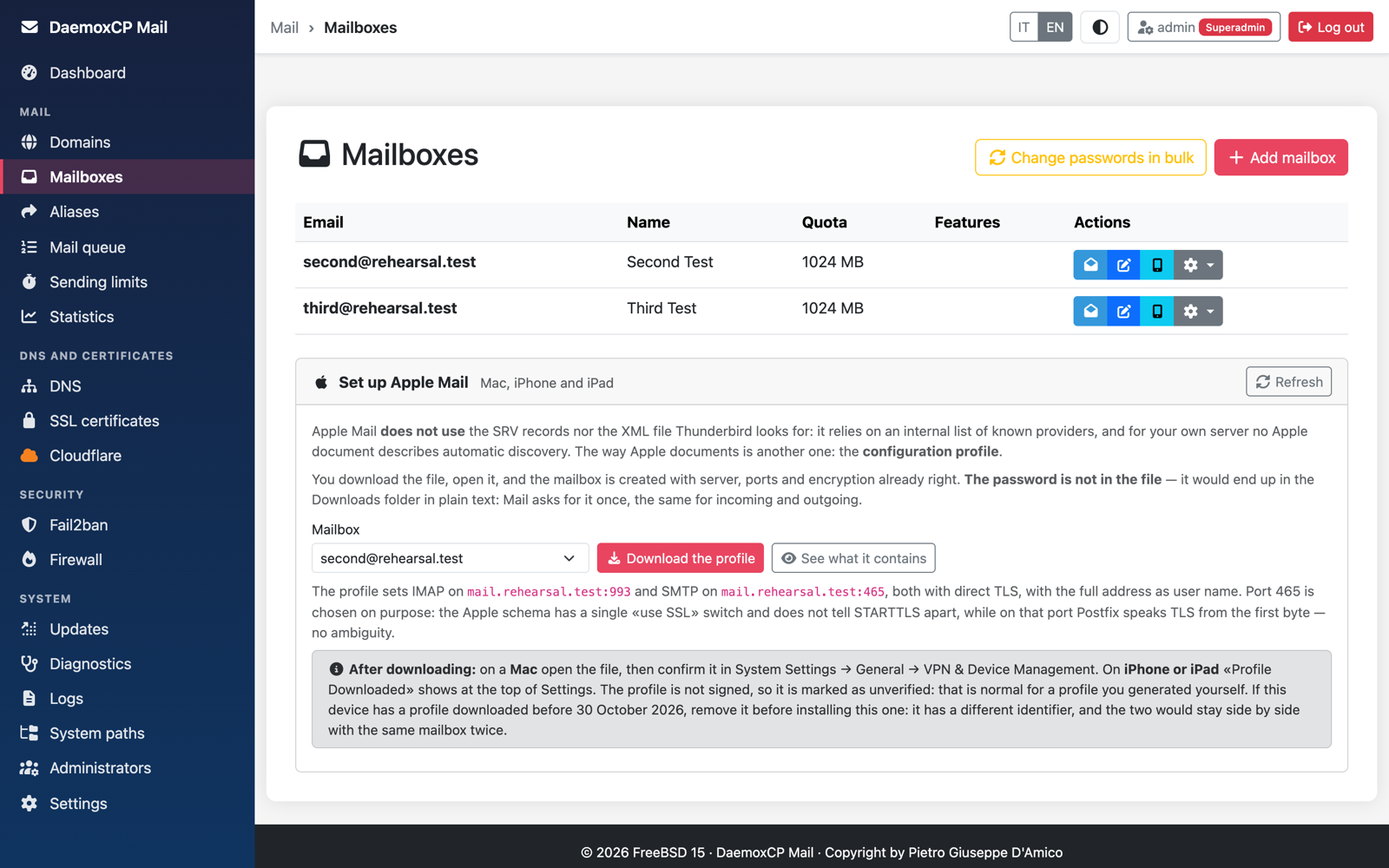
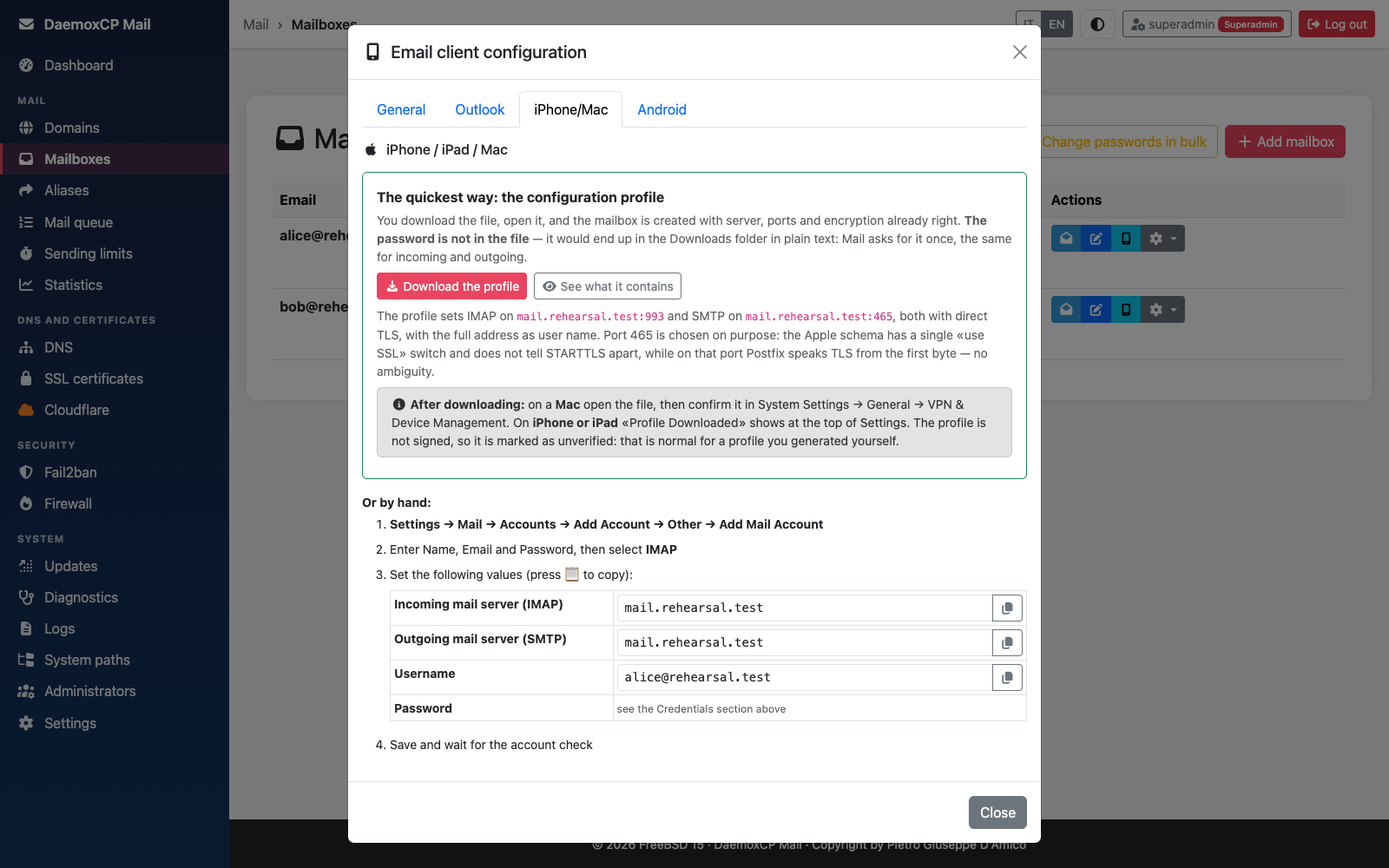
The Apple Mail profile in the mailbox window, not in a separate card
Whoever sets up a mailbox opens its "Client setup" window: the iPhone/Mac tab had only the manual
steps, and the profile was in a card at the bottom of Mailboxes that nobody found (tried on 22
November on a real iPhone).

- iPhone/Mac tab: first "Download the profile" and "See what it contains" for that mailbox, with the
  ports line and what to do next; below, "Or by hand". The buttons turn on only after checking that
  the profile can be made (mail server name, existing mailbox), otherwise the tab says why;
  touch-target, 44 px for fingers
- removed the card at the bottom of Mailboxes (apple-profile-card.html) and its language entries;
  removed the sentence about profiles downloaded before 2026-10-30, which means nothing to a new
  installation
- tests/apple-profile-browser-test.js: place, order, downloaded file (address, 993 and 465 over SSL,
  no password, plutil), preview, another mailbox, 375 px
- README in English and Italian and the two screenshots of Mailboxes

diff --git a/tests/apple-profile-browser-test.js b/tests/apple-profile-browser-test.js
@@ -1,0 +1,167 @@
+// The Apple Mail configuration profile, where people look for it: in a mailbox's "Client configuration" window, tab
+// iPhone/Mac, and no longer in a separate card at the bottom of Mailboxes (22/11/2026). On the real panel of the TEST
+// VM; it only reads and downloads: nothing changes on the server.
+//
+//  1. Mailboxes has no separate profile card any more.
+//  2. The window of a mailbox, tab iPhone/Mac: the profile comes first, before the steps by hand; its buttons turn on
+//     once the panel has checked the profile can be made, and the line under them names the IMAP and SMTP ports.
+//  3. "Download the profile" downloads that mailbox's .mobileconfig: its address, IMAP 993 and SMTP 465 with SSL, and
+//     no password inside. "See what it contains" shows the same profile.
+//  4. The window opened for another mailbox gives that mailbox's profile, not the previous one.
+//  5. At 375 px: no horizontal scrolling in the window, and the profile buttons are 44 px.
+//
+// Through an SSH tunnel to the VM's port 2096 (self-signed certificate: errors ignored, for this test machine only).
+// Sign-in with a console code.
+//
+// Usage:
+//   ssh -i ~/.ssh/freebsd_test_vm -N -L 127.0.0.1:2096:127.0.0.1:2096 root@192.168.1.20 &
+//   HOST=panel.rehearsal.test NODE_PATH=<playwright node_modules> node tests/apple-profile-browser-test.js [screenshot-folder]
+const { chromium } = require('playwright');
+const { execSync } = require('child_process');
+const fs = require('fs');
+const os = require('os');
+const path = require('path');
+// The panel's name: once the panel has a name it refuses any other Host (HostCheck), so the browser resolves that name
+// to the tunnel. Without HOST, 127.0.0.1.
+const HOST = process.env.HOST || '127.0.0.1';
+const BASE = 'https://' + HOST + ':2096';
+const OUT = process.argv[2];
+const VM = 'ssh -i ' + process.env.HOME + '/.ssh/freebsd_test_vm -o IdentitiesOnly=yes -o ConnectTimeout=10 root@192.168.1.20';
+let failed = 0;
+const check = (what, ok) => { console.log((ok ? '  OK     ' : '  FAILED ') + what); if (!ok) failed++; };
+const vm = cmd => execSync(VM + " '" + cmd + "'").toString().trim();
+
+async function signIn(page) {
+    const code = vm('cd /home/panel && /usr/local/openjdk25/bin/java -jar daemoxcp-mail.jar --lang en --access-code 2>/dev/null')
+        .match(/([0-9]{4} [0-9]{4})/)[1];
+    await page.goto(BASE + '/index');
+    await page.click('#linkConsole');
+    await page.fill('#consoleCode', code);
+    await page.click('#btnConsole');
+    await page.waitForURL(u => !String(u).includes('/index'), { timeout: 30000 });
+}
+
+// Opens the client window of the mailbox in row n, on the iPhone/Mac tab, and waits for the profile check.
+async function openApple(page, n) {
+    const open = page.locator('button[data-on-click^="showMailConfig("]').nth(n);
+    const email = (await open.getAttribute('data-on-click')).match(/showMailConfig\('([^']+)'/)[1];
+    await open.click();
+    await page.waitForSelector('#mailConfigModal.show');
+    await page.click('#mailConfigModal [data-bs-target="#configApple"]');
+    await page.waitForSelector('#configApple.active.show');
+    await page.waitForFunction(() => !document.getElementById('cfgAppleProfileBtn').disabled
+        || document.getElementById('cfgAppleProfileOutcome').innerText.trim() !== '', null, { timeout: 30000 });
+    return email;
+}
+
+async function closeWindow(page) {
+    await page.click('#mailConfigModal .btn-close');
+    await page.waitForSelector('#mailConfigModal', { state: 'hidden' });
+}
+
+// The values of a key in the profile (plist: <key>K</key> then the value element).
+const plistValue = (xml, key) => {
+    const m = xml.match(new RegExp('<key>' + key + '</key>\\s*<(string|integer|true|false)\\s*/?>([^<]*)'));
+    return m ? (m[1] === 'true' || m[1] === 'false' ? m[1] : m[2]) : null;
+};
+
+(async () => {
+    const browser = await chromium.launch({ headless: true, channel: 'chrome', args: HOST === '127.0.0.1' ? [] : ['--host-resolver-rules=MAP ' + HOST + ' 127.0.0.1'] });
+    const errors = [], dialogs = [];
+    const watch = page => {
+        page.on('pageerror', e => errors.push(String(e)));
+        page.on('dialog', async d => { dialogs.push(d.message()); await d.dismiss(); });
+    };
+    const tmp = fs.mkdtempSync(path.join(os.tmpdir(), 'apple-profile-'));
+    try {
+        const context = await browser.newContext({ ignoreHTTPSErrors: true, acceptDownloads: true, viewport: { width: 1400, height: 1000 }, locale: 'en-US' });
+        const page = await context.newPage();
+        watch(page);
+        await signIn(page);
+        check('signed in with a console code', !page.url().includes('/index'));
+
+        console.log('\n== 1. Mailboxes ==');
+        await page.goto(BASE + '/mailboxes');
+        await page.waitForSelector('button[data-on-click^="showMailConfig("]', { timeout: 30000 });
+        const rows = await page.locator('button[data-on-click^="showMailConfig("]').count();
+        check('mailboxes to try (' + rows + ')', rows > 0);
+        check('no separate profile card at the bottom of the page', await page.$('#paBody') === null && await page.$('#paMailbox') === null);
+
+        console.log('\n== 2. The window, tab iPhone/Mac ==');
+        const email = await openApple(page, 0);
+        const order = await page.evaluate(() => {
+            const tab = document.getElementById('configApple');
+            const btn = document.getElementById('cfgAppleProfileBtn'), steps = tab.querySelector('ol');
+            return !!(btn && steps && (btn.compareDocumentPosition(steps) & Node.DOCUMENT_POSITION_FOLLOWING));
+        });
+        check('the profile comes first, the steps by hand after it', order);
+        check('the download button is on', !(await page.$eval('#cfgAppleProfileBtn', b => b.disabled)));
+        const sets = await page.innerText('#cfgAppleProfileSets');
+        check('the line under it names IMAP 993 and SMTP 465', /:993\b/.test(sets) && /:465\b/.test(sets));
+        if (OUT) await page.locator('#mailConfigModal .modal-content').screenshot({ path: OUT + '/apple-profile-window.png' });
+
+        console.log('\n== 3. Download and preview ==');
+        const [dl] = await Promise.all([page.waitForEvent('download'), page.click('#cfgAppleProfileBtn')]);
+        const file = path.join(tmp, 'first.mobileconfig');
+        await dl.saveAs(file);
+        const xml = fs.readFileSync(file, 'utf8');
+        check('the file is a .mobileconfig named after the mailbox', dl.suggestedFilename() === email.toLowerCase().replace(/[^a-z0-9._-]/g, '-') + '.mobileconfig');
+        check('  its address is the mailbox', plistValue(xml, 'EmailAddress') === email);
+        check('  IMAP 993 with SSL', plistValue(xml, 'IncomingMailServerPortNumber') === '993' && plistValue(xml, 'IncomingMailServerUseSSL') === 'true');
+        check('  SMTP 465 with SSL', plistValue(xml, 'OutgoingMailServerPortNumber') === '465' && plistValue(xml, 'OutgoingMailServerUseSSL') === 'true');
+        check('  no password inside', !/<key>(IncomingPassword|OutgoingPassword)<\/key>/.test(xml));
+        if (process.platform === 'darwin') {
+            let lint = '';
+            try { lint = execSync('plutil -lint "' + file + '"').toString(); } catch (e) { lint = String(e.stdout || e); }
+            check('  plutil accepts it', /: OK\s*$/.test(lint.trim()));
+        }
+        await page.click('#cfgAppleProfileLookBtn');
+        await page.waitForSelector('#cfgAppleProfileOutcome pre', { timeout: 30000 });
+        const shown = await page.innerText('#cfgAppleProfileOutcome pre');
+        check('"See what it contains" shows the same profile', shown.includes('<string>' + email + '</string>'));
+        await closeWindow(page);
+
+        console.log('\n== 4. Another mailbox ==');
+        if (rows > 1) {
+            const other = await openApple(page, 1);
+            check('the window was reset: no preview left from the other mailbox', await page.$('#cfgAppleProfileOutcome pre') === null);
+            const [dl2] = await Promise.all([page.waitForEvent('download'), page.click('#cfgAppleProfileBtn')]);
+            const file2 = path.join(tmp, 'second.mobileconfig');
+            await dl2.saveAs(file2);
+            check('the profile is the one of ' + (other === email ? 'the same' : 'the other') + ' mailbox', other !== email
+                && plistValue(fs.readFileSync(file2, 'utf8'), 'EmailAddress') === other);
+            await closeWindow(page);
+        } else {
+            console.log('  (only one mailbox: skipped)');
+        }
+        await context.close();
+
+        console.log('\n== 5. At 375 px ==');
+        const phone = await browser.newContext({ ignoreHTTPSErrors: true, acceptDownloads: true, viewport: { width: 375, height: 812 }, isMobile: true, hasTouch: true, locale: 'en-GB' });
+        const small = await phone.newPage();
+        watch(small);
+        await signIn(small);
+        await small.goto(BASE + '/mailboxes');
+        await small.waitForSelector('button[data-on-click^="showMailConfig("]', { timeout: 30000 });
+        await openApple(small, 0);
+        const lay = await small.evaluate(() => {
+            const content = document.querySelector('#mailConfigModal .modal-content');
+            return {
+                scroll: Math.max(document.documentElement.scrollWidth - window.innerWidth, content.scrollWidth - content.clientWidth),
+                tiny: ['cfgAppleProfileBtn', 'cfgAppleProfileLookBtn'].map(id => document.getElementById(id).getBoundingClientRect())
+                    .map(r => Math.round(Math.min(r.height, r.width))).filter(h => h < 44)
+            };
+        });
+        check('no horizontal scrolling in the window (' + lay.scroll + ')', lay.scroll <= 0);
+        check('the profile buttons are 44 px' + (lay.tiny.length ? ': ' + lay.tiny.join(', ') : ''), lay.tiny.length === 0);
+        if (OUT) await small.screenshot({ path: OUT + '/apple-profile-phone.png', fullPage: false });
+        await phone.close();
+        check('no browser dialog, no page error' + (errors.length + dialogs.length ? ': ' + errors.concat(dialogs).join(' | ') : ''),
+            !errors.length && !dialogs.length);
+    } finally {
+        await browser.close();
+        fs.rmSync(tmp, { recursive: true, force: true });
+    }
+    console.log('\n' + (failed === 0 ? 'ALL OK' : failed + ' CHECKS FAILED'));
+    process.exit(failed ? 1 : 0);
+})().catch(e => { console.error(e); process.exit(2); });

diff --git a/src/main/resources/pages/apple-profile.js b/src/main/resources/pages/apple-profile.js
@@ -1,4 +1,6 @@
         // ---------- Profilo di configurazione per Apple Mail ----------
+        // Sta nella finestra «Configurazione dei client» della casella, scheda iPhone/Mac: e' li' che si va a
+        // configurare una casella (una scheda a parte in fondo alla pagina non la trovava nessuno, 22/11/2026).
         // Le chiavi del profilo vengono dallo schema ufficiale Apple (com.apple.mail.managed);
         // il file generato passa la validazione di plutil, non e' stato guardato a occhio.
         async function paApi(actionItem, extra) {
@@ -16,54 +18,53 @@
             return d.innerHTML;
         }
 
-        async function paLoad() {
-            const el = document.getElementById('paBody');
-            if (!el) return;
-            el.innerHTML = '<i class="fas fa-spinner fa-spin me-1" aria-hidden="true"></i>' + paEsc(t('pa.reading'));
-            const r = await paApi('status');
+        // All'apertura della finestra: i pulsanti si accendono solo se il profilo di questa casella si puo' fare
+        // (nome del server di posta impostato, casella esistente); altrimenti si dice perche'.
+        async function cfgAppleProfileState(email) {
+            const btn = document.getElementById('cfgAppleProfileBtn');
+            const look = document.getElementById('cfgAppleProfileLookBtn');
+            const sets = document.getElementById('cfgAppleProfileSets');
+            const out = document.getElementById('cfgAppleProfileOutcome');
+            if (!btn || !look || !sets || !out) return;
+            btn.disabled = true;
+            look.disabled = true;
+            sets.innerHTML = '';
+            out.innerHTML = '';
+            let r;
+            try {
+                r = await paApi('status');
+            } catch (e) {
+                r = { success: false, error: t('common.errorShort') };
+            }
+            // La finestra nel frattempo puo' essere stata riaperta per un'altra casella.
+            if (email !== __cfgCurrentEmail) return;
             if (!r.success) {
-                el.innerHTML = '<div class="alert alert-warning py-2 small mb-0">' + paEsc(r.error) + '</div>';
+                out.innerHTML = '<div class="alert alert-warning py-2 small mb-0">' + paEsc(r.error) + '</div>';
                 return;
             }
-            const mailboxes = r.mailboxes || [];
-            if (!mailboxes.length) {
-                el.innerHTML = '<div class="alert alert-info py-2 small mb-0">' + paEsc(t('pa.none')) + '</div>';
+            if (!(r.mailboxes || []).includes(email)) {
+                out.innerHTML = '<div class="alert alert-warning py-2 small mb-0">' + paEsc(t('cfg.apUnavailable')) + '</div>';
                 return;
             }
-
-            el.innerHTML =
-                  '<div class="d-flex gap-2 align-items-end flex-wrap mb-2">'
-                + '<div><label class="form-label small mb-1" for="paMailbox">' + paEsc(t('pa.mailbox')) + '</label>'
-                + '<select class="form-select form-select-sm" id="paMailbox" data-style="min-width:18rem">'
-                + mailboxes.map(c => '<option value="' + paEsc(c) + '">' + paEsc(c) + '</option>').join('')
-                + '</select></div>'
-                + '<button class="btn btn-sm btn-mail" data-on-click="paDownload()">'
-                + '<i class="fas fa-download me-1" aria-hidden="true"></i>' + paEsc(t('pa.download')) + '</button>'
-                + '<button class="btn btn-sm btn-outline-secondary" data-on-click="paPreview()">'
-                + '<i class="fas fa-eye me-1" aria-hidden="true"></i>' + paEsc(t('pa.look')) + '</button>'
-                + '</div>'
-                + '<div class="small text-muted mb-2">' + t('pa.sets.html', { imap: paEsc(r.mailHost + ':' + r.imapPort), smtp: paEsc(r.mailHost + ':' + r.smtpPort) }) + '</div>'
-                + '<div class="alert alert-secondary py-2 small mb-0">'
-                + '<i class="fas fa-circle-info me-1" aria-hidden="true"></i>' + t('pa.after.html') + '</div>'
-                + '<div id="paOutcome" class="mt-2"></div>';
+            sets.innerHTML = t('pa.sets.html', { imap: paEsc(r.mailHost + ':' + r.imapPort), smtp: paEsc(r.mailHost + ':' + r.smtpPort) });
+            btn.disabled = false;
+            look.disabled = false;
         }
 
-        function paDownload() {
-            const sel = document.getElementById('paMailbox');
-            if (!sel || !sel.value) return;
-            window.location = '/apple-profile?email=' + encodeURIComponent(sel.value);
+        function cfgAppleProfile() {
+            if (!__cfgCurrentEmail) return;
+            window.location = '/apple-profile?email=' + encodeURIComponent(__cfgCurrentEmail);
         }
 
-        async function paPreview() {
-            const sel = document.getElementById('paMailbox');
-            const el = document.getElementById('paOutcome');
-            if (!sel || !sel.value) return;
-            el.innerHTML = '<i class="fas fa-spinner fa-spin me-1" aria-hidden="true"></i>' + paEsc(t('pa.generating'));
-            const r = await paApi('preview', { email: sel.value });
+        async function cfgAppleProfilePreview() {
+            const out = document.getElementById('cfgAppleProfileOutcome');
+            if (!out || !__cfgCurrentEmail) return;
+            out.innerHTML = '<i class="fas fa-spinner fa-spin me-1" aria-hidden="true"></i>' + paEsc(t('pa.generating'));
+            const r = await paApi('preview', { email: __cfgCurrentEmail });
             if (!r.success) {
-                el.innerHTML = '<div class="alert alert-danger py-2 small mb-0">' + paEsc(r.error) + '</div>';
+                out.innerHTML = '<div class="alert alert-danger py-2 small mb-0">' + paEsc(r.error) + '</div>';
                 return;
             }
-            el.innerHTML = '<pre class="small p-2 border rounded" data-style="max-height:24rem;overflow:auto">'
-                         + paEsc(r.profile) + '</pre>';
+            out.innerHTML = '<pre class="small p-2 border rounded" data-style="max-height:24rem;overflow:auto">'
+                          + paEsc(r.profile) + '</pre>';
         }

diff --git a/src/main/java/org/daemoxcp/mail/content/PanelContent.java b/src/main/java/org/daemoxcp/mail/content/PanelContent.java
@@ -1881,7 +1881,23 @@ public class PanelContent {
                         <!-- ===== Tab APPLE ===== -->
                         <div class="tab-pane fade" id="configApple">
                             <h6><i class="fab fa-apple me-2" aria-hidden="true"></i>iPhone / iPad / Mac</h6>
-                            <ol class="mt-3 small">
+                            <!-- Il profilo di configurazione della casella: il modo piu' semplice, quindi per primo, qui
+                                 dove si configura la casella e non in una scheda a parte in fondo alla pagina. -->
+                            <div class="card mt-3 mb-3 border-success">
+                                <div class="card-body">
+                                    <p class="fw-bold mb-1">{{t:cfg.apProfile}}</p>
+                                    <p class="small text-muted mb-2">{{t:pa.intro2.html}}</p>
+                                    <div class="d-flex gap-2 flex-wrap mb-2">
+                                        <button type="button" class="btn btn-sm btn-mail touch-target" id="cfgAppleProfileBtn" data-on-click="cfgAppleProfile()" disabled><i class="fas fa-download me-1" aria-hidden="true"></i>{{t:pa.download}}</button>
+                                        <button type="button" class="btn btn-sm btn-outline-secondary touch-target" id="cfgAppleProfileLookBtn" data-on-click="cfgAppleProfilePreview()" disabled><i class="fas fa-eye me-1" aria-hidden="true"></i>{{t:pa.look}}</button>
+                                    </div>
+                                    <div class="small text-muted mb-2" id="cfgAppleProfileSets"></div>
+                                    <div class="alert alert-secondary py-2 small mb-0"><i class="fas fa-circle-info me-1" aria-hidden="true"></i>{{t:pa.after.html}}</div>
+                                    <div id="cfgAppleProfileOutcome" class="mt-2" aria-live="polite"></div>
+                                </div>
+                            </div>
+                            <p class="fw-bold small mb-1">{{t:cfg.apByHand}}</p>
+                            <ol class="small">
                                 <li class="mb-2">{{t:cfg.ap1.html}}</li>
                                 <li class="mb-2">{{t:cfg.ap2.html}}</li>
                                 <li class="mb-3">{{t:cfg.setValues}}
@@ -3225,7 +3241,6 @@ public class PanelContent {
                     </tbody>
                 </table>
             </div>
-""" + resource("pages/apple-profile-card.html") + """
         </div>
     </main>
 
@@ -3698,6 +3713,9 @@ public class PanelContent {
                 pwReveal.innerHTML = '<i class="fas fa-unlock me-1" aria-hidden="true"></i>' + escMbx(t('mbx.reveal'));
             }
             if (pwHint) pwHint.textContent = t('mbx.revealHint');
+
+            // Il profilo Apple di questa casella (scheda iPhone/Mac)
+            cfgAppleProfileState(__cfgCurrentEmail);
 
             // Carica server config
             fetch('/api/mailconfig').then(r => r.json()).then(data => {
@@ -4175,7 +4193,6 @@ public class PanelContent {
 """ + resource("pages/apple-profile.js") + """
         loadDomains();
         loadMailboxes();
-        paLoad();
     </script>
 </body>
 </html>

diff --git a/README.it.md b/README.it.md
@@ -185,7 +185,7 @@ servizio è il pacchetto di FreeBSD, gira sotto `rc.d`, con la configurazione do
 <table>
 <tr>
 <td width="50%"><img src="docs/screenshots/it/login.png" alt="Pagina di accesso: passkey, un codice via email, o un codice dalla console del server"><br><sub>Accesso: una passkey, un codice via email, o un codice dalla console del server. Nessuna password.</sub></td>
-<td width="50%"><img src="docs/screenshots/it/mailboxes.png" alt="Pagina delle caselle con la scheda del profilo di Apple Mail"><br><sub>Caselle, col profilo di configurazione di Apple Mail.</sub></td>
+<td width="50%"><img src="docs/screenshots/it/mailboxes.png" alt="Pagina delle caselle con la finestra della configurazione dei client di una casella, scheda iPhone/Mac, col profilo di Apple Mail per primo"><br><sub>Caselle: la configurazione dei client di una casella, col profilo di Apple Mail per primo.</sub></td>
 </tr>
 <tr>
 <td><img src="docs/screenshots/it/dns.png" alt="Pagina DNS: Configura tutto e la sequenza di MTA-STS"><br><sub>DNS: un pulsante scrive i record su Cloudflare; MTA-STS nell'ordine giusto.</sub></td>
@@ -676,8 +676,8 @@ telefono) con queste impostazioni:
 
 - **Nome utente**: l'indirizzo completo della casella, per esempio `alice@example.com`, sia per la posta in arrivo
   sia per quella in uscita. **Password**: quella della casella.
-- **Apple Mail** (Mac, iPhone, iPad): in *Caselle*, il profilo di configurazione Apple della casella. Aprilo sul
-  dispositivo e l'account si configura da solo. Provato su macOS. Su un iPhone funzionano anche le impostazioni qui
+- **Apple Mail** (Mac, iPhone, iPad): in *Caselle*, il pulsante *Configurazione dei client* della casella (l'icona del
+  telefono), scheda *iPhone/Mac*, **Scarica il profilo**. Aprilo sul dispositivo e l'account si configura da solo. Provato su macOS. Su un iPhone funzionano anche le impostazioni qui
   sopra scritte a mano: provato, in ricezione e in invio.
 - **Thunderbird** trova le impostazioni da solo partendo dall'indirizzo, grazie ai record di autoconfig che scrive
   *Configura tutto*. Non ancora provato con un Thunderbird vero.

diff --git a/README.md b/README.md
@@ -184,7 +184,7 @@ It is **careful**. The panel never changes anything it cannot check, and it says
 <table>
 <tr>
 <td width="50%"><img src="docs/screenshots/en/login.png" alt="Sign-in page: passkey, a code by email, or a code from the server console"><br><sub>Sign-in: a passkey, a code by email, or a code from the server console. No passwords.</sub></td>
-<td width="50%"><img src="docs/screenshots/en/mailboxes.png" alt="Mailboxes page with the Apple Mail configuration profile card"><br><sub>Mailboxes, with the Apple Mail configuration profile.</sub></td>
+<td width="50%"><img src="docs/screenshots/en/mailboxes.png" alt="Mailboxes page with a mailbox's client configuration window on the iPhone/Mac tab, the Apple Mail profile first"><br><sub>Mailboxes: a mailbox's client configuration, with the Apple Mail profile first.</sub></td>
 </tr>
 <tr>
 <td><img src="docs/screenshots/en/dns.png" alt="DNS page: Set up everything and the MTA-STS sequence"><br><sub>DNS: one button writes the records on Cloudflare; MTA-STS in the right order.</sub></td>
@@ -666,8 +666,8 @@ settings:
 
 - **User name**: the mailbox's full address, for example `alice@example.com`, both for incoming and outgoing mail.
   **Password**: the mailbox's password.
-- **Apple Mail** (Mac, iPhone, iPad): on *Mailboxes*, the mailbox's Apple configuration profile. Open it on the
-  device and the account sets itself up. Tested on macOS. On an iPhone, the settings above entered by hand work
+- **Apple Mail** (Mac, iPhone, iPad): on *Mailboxes*, the mailbox's *Client configuration* button (the phone icon),
+  tab *iPhone/Mac*, **Download the profile**. Open it on the device and the account sets itself up. Tested on macOS. On an iPhone, the settings above entered by hand work
   too: tested, receiving and sending.
 - **Thunderbird** finds the settings by itself from the mail address, through the autoconfig records that *Set up
   everything* writes. Not tried with a real Thunderbird yet.

diff --git a/tests/README.md b/tests/README.md
@@ -1453,6 +1453,13 @@ one row of "Update the server" with at most one button, no separate card and no 
 under the row is closed, and opened shows the packages with version and lock in words and no update button; at 375 px
 no horizontal scrolling with the list open and every visible button 44 px; no request that changes anything.
 
+**apple-profile-browser-test.js** — on the real panel of the test VM, only reads and downloads (22/11/2026): the Apple
+Mail profile is in a mailbox's *Client configuration* window, tab iPhone/Mac, first and before the steps by hand, and no
+longer in a separate card at the bottom of Mailboxes. Its buttons turn on once the panel has checked the profile can be
+made; "Download the profile" gives that mailbox's `.mobileconfig` (its address, IMAP 993 and SMTP 465 with SSL, no
+password, accepted by `plutil` on the Mac), and "See what it contains" shows the same profile. Opened for another
+mailbox, the window gives that mailbox's profile. At 375 px no horizontal scrolling and the two buttons 44 px.
+
 **fingerprint-routes-browser-test.js** — on the real panel of the test VM (finding 204): the two features that send the
 root part a fingerprint the panel computed itself go through the root's closed list. The package branch to latest and
 back to quarterly (16 hex digits, each job followed to the end; the VM put back on quarterly in any case), and "Turn
